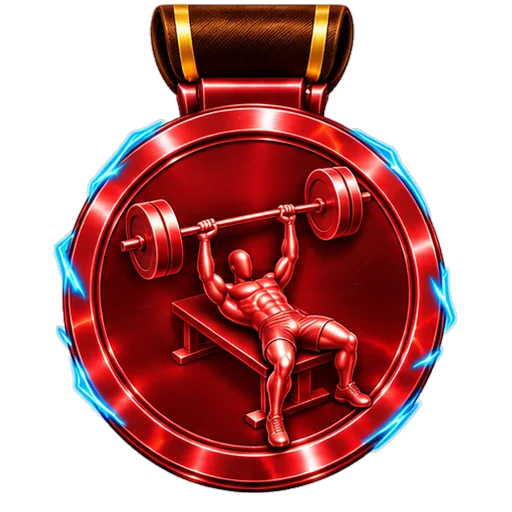
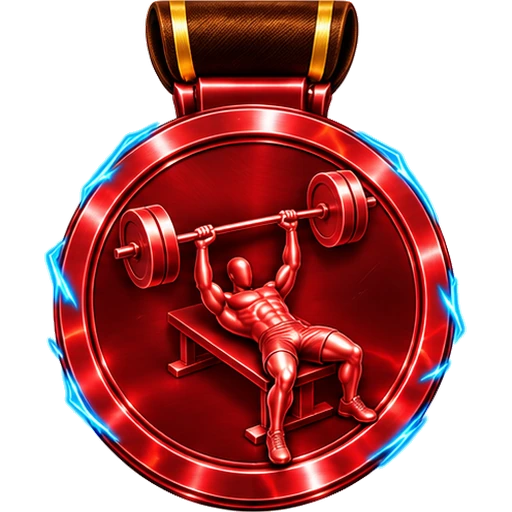
Medaillen: alle 45 sauber neu freigestellt (keine Loecher/Umrisse im gesperrten Zustand), neue Dips- und Schulterdruecken-Medaillen, Manifest komplett
Claude-Session: https://claude.ai/code/session_01X92X6RGjT3LeDuy6LQeQLR

diff --git a/app/assets/medal-manifest.js b/app/assets/medal-manifest.js
@@ -1,2 +1,2 @@
 /* Welche fertigen Medaillen-Bilder es gibt: Stelle 0-4 = bronze, silber, gold, diamant, champion (1 = vorhanden). */
-window.MEDAL_IMG={bench:"11111",deadlift:"11111",pullup:"11111",squat:"11111",ohp:"11111",dips:"11111"};
+window.MEDAL_IMG={bench:"11111",deadlift:"11111",pullup:"11111",squat:"11111",row:"11111",ohp:"11111",dips:"11111",pushup:"11111",plank:"11111"};
